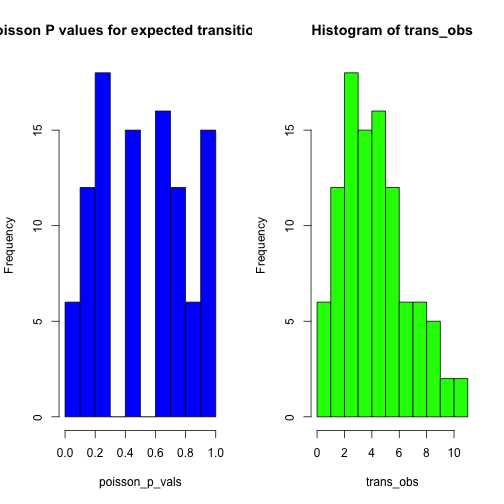
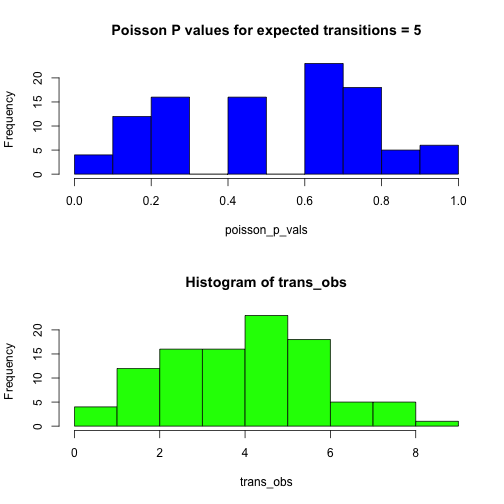
Added notes to the markdown on selecting Q. The functions to get Q, the node states, and simulation diagnostics are in functions.R

diff --git a/testing_examples/README.md b/testing_examples/README.md
@@ -13,7 +13,7 @@ To do
 
 - Simulate character data along the tree with Q. The transitions from the simulations are the observed number of transitions (*Tobs*).
 
-- Obtain P value of Tobs given a poisson distribution with lambda = *Texp*.
+- Obtain P value of Tobs given a Poisson distribution with lambda = *Texp*.
 
 - Repeat the analyses 100 times for 3 values of *Texp*, 20, 10, and 5, and plot the histograms of *P*(just for visual inspection) and of *Tobs*.
 
@@ -53,19 +53,22 @@ for(i in 1:100){
   #if((i %% 10) == 0) print(paste('Running simulation', i, 'of', 1000, 'P=', round(poisson_p_vals[i], 2)))
 }
 
-par(mfrow = c(1, 2))
+par(mfrow = c(2, 1))
 hist(poisson_p_vals, col = 'blue', main = 'Poisson P values for expected transitions = 20')
 hist(trans_obs, col = 'green')
 ```
 
 ![plot of chunk unnamed-chunk-2](figure/unnamed-chunk-2.png) 
 
+The average observed number of substitutions appears to be  below the observed. The data do not appear to follow a Poisson distribution.
+
+
 *Texp* = 10 (medium)
 ====================
 
 
 ```r
-# Simulate data along trees and get distribution of Pvalues of possion distribution with a medium number of transitions
+# Simulate data along trees and get distribution of Pvalues of Poisson distribution with a medium number of transitions
 ####################################
 
 T_num <- 10
@@ -82,12 +85,14 @@ for(i in 1:100){
   #if((i %% 10) == 0) print(paste('Running simulation', i, 'of', 1000, 'P=', round(poisson_p_vals[i], 2)))
 }
 
-par(mfrow = c(1, 2))
+par(mfrow = c(2, 1))
 hist(poisson_p_vals, col = 'blue', main = "Poisson P values for expected transitions = 10")
 hist(trans_obs, col = 'green')
 ```
 
 ![plot of chunk unnamed-chunk-3](figure/unnamed-chunk-3.png) 
+
+A large proportion of the data conform to the poisson process. The centre of mass of the observed transitions is closer to the expected than in the case of *Texp* = 10.
 
 *Texp* = 5 (low)
 ================
@@ -111,14 +116,14 @@ for(i in 1:100){
   #if((i %% 10) == 0) print(paste('Running simulation', i, 'of', 1000, 'P=', round(poisson_p_vals[i], 2)))
 }
 
-par(mfrow = c(1, 2))
+par(mfrow = c(2, 1))
 hist(poisson_p_vals, col = 'blue', main = "Poisson P values for expected transitions = 5")
 hist(trans_obs, col = 'green')
 ```
 
 ![plot of chunk unnamed-chunk-4](figure/unnamed-chunk-4.png) 
 
-
+The centre of mass of the observed transitions is at the expected, or very close. However, it is not clear whether most of the simulations conform to a Possion process.
 
 
 
